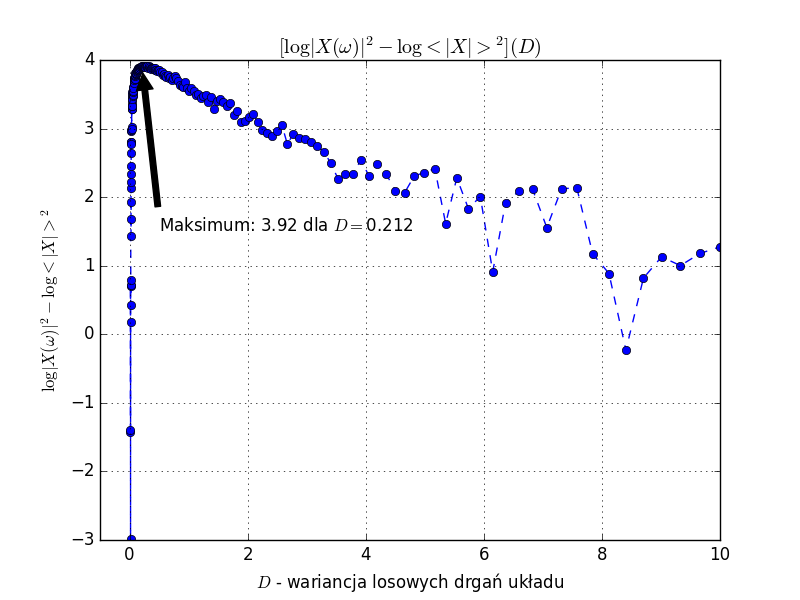
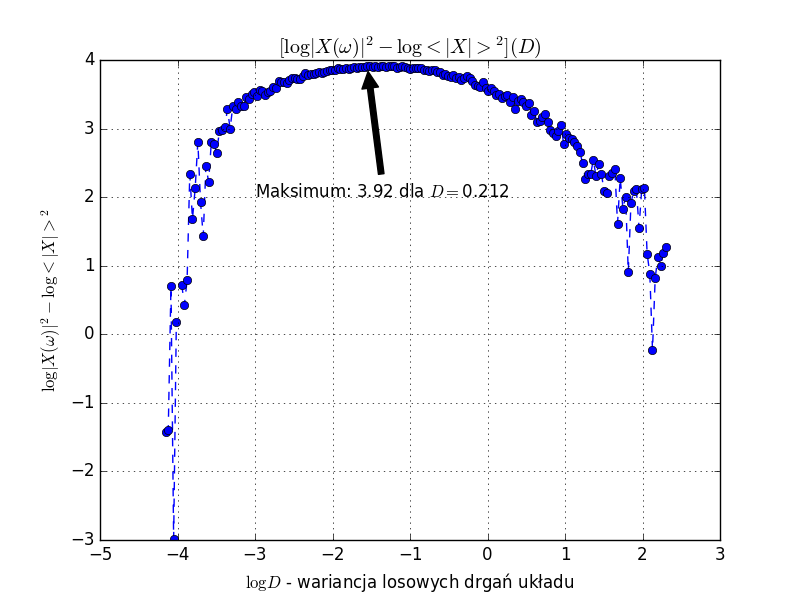
sprawko

diff --git a/read_plot.py b/read_plot.py
@@ -12,14 +12,14 @@ x_plot, y_plot = df[0], df[1]
 id_max = np.argmax(y_plot)
 
 fig, ax = plt.subplots()
-ax.set_xlim(-0.5, x_plot.max())
-ax.plot(x_plot, y_plot, "bo--")
+# ax.set_xlim(-0.5, x_plot.max())
+ax.plot(np.log(x_plot), y_plot, "bo--")
 ax.set_title("$[\log |X(\omega)|^2 - \log <|X|>^2](D)$")
-ax.set_xlabel("$D$ - wariancja losowych drgań układu")
+ax.set_xlabel("$\log D$ - wariancja losowych drgań układu")
 ax.set_ylabel("$\log |X(\omega)|^2 - \log <|X|>^2$")
 xmax, ymax = x_plot[id_max], y_plot[id_max]
 ax.annotate("Maksimum: {:.2f} dla $D = ${:.3f}".format(ymax, xmax),
-    (xmax, ymax), (0.5, 1.5), arrowprops=dict(facecolor='black', shrink=0.05))
+    (np.log(xmax), ymax), (-3, 2), arrowprops=dict(facecolor='black', shrink=0.05))
 ax.grid()
 fig.savefig("ostateczny_wykres.png")
 plt.show()

diff --git a/README.md b/README.md
@@ -1,15 +1,58 @@
-# ProjektKrewetka
-Laboratorium Specjalistyczne: rezonans stochastyczny
+# Laboratorium Specjalistyczne: rezonans stochastyczny
+### Mateusz Kaczorek, Dominik Stańczak
+## Problem
+Rezonans stochastyczny to zjawisko polegające na wzmacnianiu sygnału okresowego poprzez
+dodanie do niego składowej stochastycznej. W ćwiczeniu zrealizowaliśmy ten efekt
+ poprzez symulację ruchu układu w potencjale bistabilnym z dodaną składową
+ czasową, sinusoidalną.
+## Symulacja ruchu
+Bardzo masywna cząstka porusza się w potencjale:
+$$ V(x) = a x^4 - b x^2 - c x\sin(\omega t) $$
+Z dodatkiem losowej siły wymuszającej o gaussowskim rozkładzie i wariancji $D$.
 
-### Symulacja ruchu
-Cząstka rusza się w potencjale:
-$$ V(x) = a x^4 - b x^2 + c\sin(\omega t) $$
-Z dodatkiem losowej siły wymuszającej o gaussowskim rozkładzie,
-### Analiza fourierowska
+Ruch cząstki symulujemy przy użyciu zmodyfikowanego schematu Eulerowskiego ([PRACA, ROK])
+przy założeniu, że cząstka jest bardzo masywna [JAK SZŁO TO ZAŁOŻENIE?]
+co ostatecznie pozwala nam zapisać schemat aktualizacji pozycji cząstki
+między kolejnymi aktualizacjami jako:
 
-* ![0.01.png](plots/0.01.png)
-* ![0.10234114021054533.png](plots/0.10234114021054533.png)
-* ![0.22739657523579276.png](plots/0.22739657523579276.png)
-* ![10.0.png](plots/10.0.png)
-### Zebranie danych z 200 symulacji
-![ostateczny_wykres.png](ostateczny_wykres.png)
+$$x_{n+1} = x_n - \nabla V(x_n) dt + \sqrt{2 D dt} \chi$$
+
+gdzie $\chi$ jest zmienną losową z rozkładu normalnego, "normalną"
+(o odchyleniu standardowym równym jeden i wartości średniej równej 0).
+
+W tej symulacji całkowaliśmy równania dla następujących parametrów:
+
+| a     | b   |    c | dt     | Liczba kroków w okresie | Liczba okresów na symulację | $\omega = 1/T$ |
+|-------|-----|------|--------|-------------------------|-----------------------------|----------------|
+| 0.25  | 0.5 | 0.25 |  0.005 | $2^{10}$                | $2^{14}$                    | 0.1953125      |
+
+Poniższe symulacje przeprowadziliśmy dla 200 różnych wartości wariancji liczby losowej $D$ z zakresu od $10^{-2}$ do $10^1$, rozłożonych równomiernie w skali logarytmicznej.
+## Analiza fourierowska
+
+W celu analizy trajektorie ruchu w każdej symulacji zamieniliśmy na wartości binarne:
+* $1$ gdy $x \geq 0$
+* $-1$ gdy $x < 0$
+
+Następnie przeprowadziliśmy analizę fourierowską spektrum mocy danych, używając transformaty Fouriera. Przykłady kilku z tych transformat przedstawiamy na wykresach poniżej.
+
+Transformaty wygładziliśmy, uśredniając 51 najbliższych punktów z kwadratu modułu transformaty Fouriera (widma mocy). Następnie odjęliśmy od widma mocy uśrednioną wartość i dla każdej symulacji odczytaliśmy wartość otrzymanej "względnej" amplitudy dla składowej odpowiadającej okresowej sile wymuszającej.  
+
+![0.0174263338600965.png](plots/0.0174263338600965.png)
+
+![0.10234114021054533.png](plots/0.10234114021054533.png)
+
+![0.22739657523579276.png](plots/0.22739657523579276.png)
+
+![10.0.png](plots/10.0.png)
+
+
+## Zebranie danych z 200 symulacji
+Wartości składowej odpowiadającej sile wymuszającej zebrane są, w skali log-log, na poniższym wykresie.
+![Wykres zbierający dane](ostateczny_wykres.png)
+
+## Wnioski
+W trakcie realizacji ćwiczenia dowiedzieliśmy się wiele:
+* o samym istnieniu zjawiska rezonansu stochastycznego, jego zastosowaniach np. w badaniu zmian klimatycznych oraz [w niestabilnych plazmach](http://scitation.aip.org/content/aip/journal/pop/6/8/10.1063/1.873595)
+* jak całkować numerycznie stochastyczne równania różniczkowe, uwzględniając - w pierwszym przybliżeniu - człony proporcjonalne do $\sqrt{dt}$
+* jak radzić sobie z długimi szeregami czasowymi (obsługa formatu do zapisu danych liczbowych `.hdf5`)
+* jak analizować dane z szeregów czasowych poprzez analizę Fourierowską i jak radzić sobie z szumem w takich symulacjach
